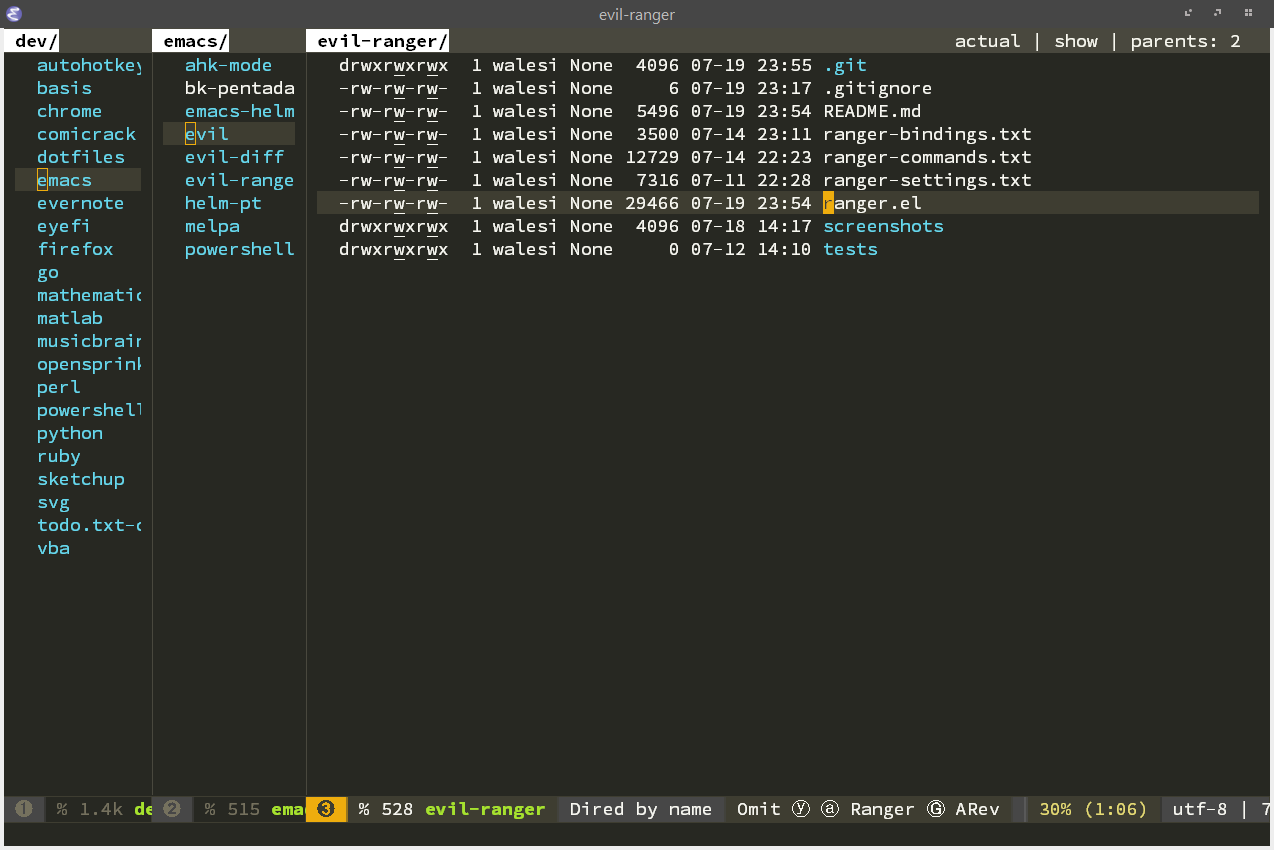
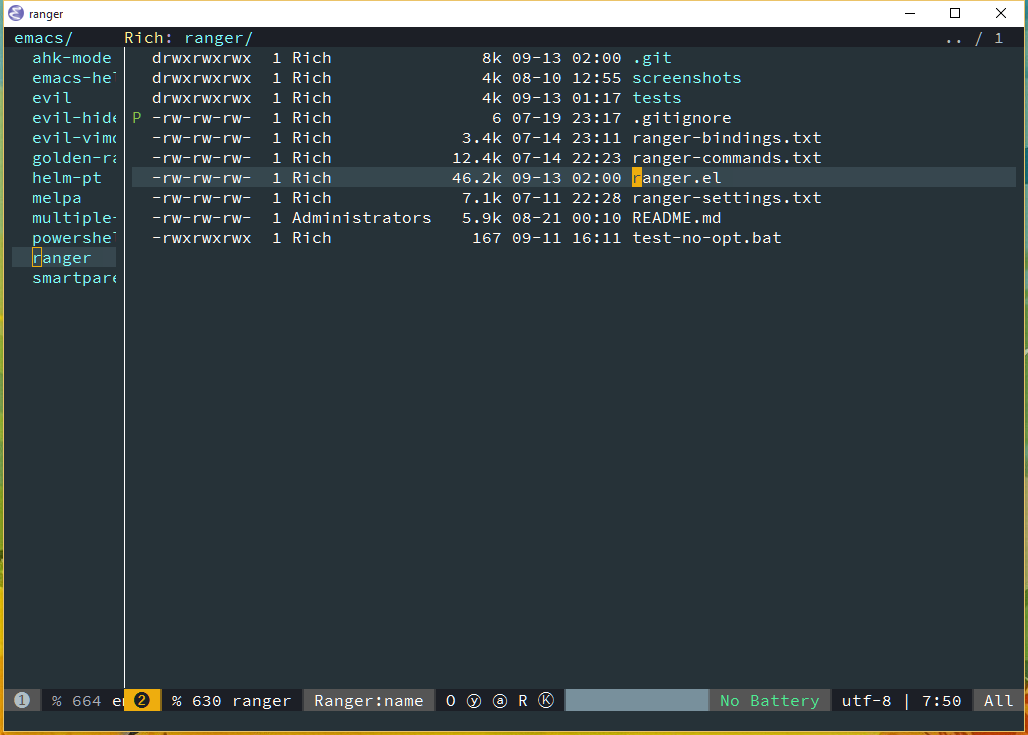
Added copy / paste functionality.

Changed region(s): [[0.0, 0.0, 1.0, 1.0]]

diff --git a/README.md b/README.md
@@ -61,11 +61,11 @@ ranger screencast
 * Emacs bookmarks support
 * Create bindings to go up / down the next directory
 * minimal ranger mode (deer-mode)
+* Copy / paste functionality
+* Persistent flags showing recently copied items
 
 ## Todo
 
-* Add ranger style copy and pasted
-* Improve headerline display
 * Preview PDFs
 * Better showing of archive files
 * Set up tabs and navigation between
@@ -78,11 +78,24 @@ ranger in a single window without preview or parent directories.  This allows
 all the functionality builtin to ranger without modifying any other buffer
 windows.  Toggle between `ranger` and `deer` with `zp`.
 
+## Copy / Paste
+
+Ranger utilizes a copy ring to save a persistent fileset that can then be
+either moved or copied to a target directory.  This is consistent with the
+way the ranger file manager manages file movement. `yy` specifies to copy the
+marked or currently hovered files.  Additionally a flag denoted as "P" will
+visually indicate what files are marked for movement. `dd` likewise specifies
+that the files will be moved instead of copied. 
+
+To paste the files most recently added to the copy ring, use `pp` or `po` to
+paste, the later binding will overwrite existing files.
+
 ## Key bindings
 
  Keybinding    | Description
  ------------- | -----------
  `?`           | show ranger help
+ `!`           | run shell command
  `j`           | navigate down
  `k`           | navigate up
  `J`           | next subdir
@@ -112,6 +125,10 @@ windows.  Toggle between `ranger` and `deer` with `zp`.
  `z+`          | increment number of parents
  `v`           | toggle all marks
  `V`           | visually select lines
+ `yy`          | mark files to copy
+ `dd`          | mark files to move
+ `pp`          | paste files in copy ring
+ `po`          | paste files in copy ring and overwrite existing
  `S`           | enter shell
  `C-SPC`       | mark current file
  `i`           | show preview of current file
